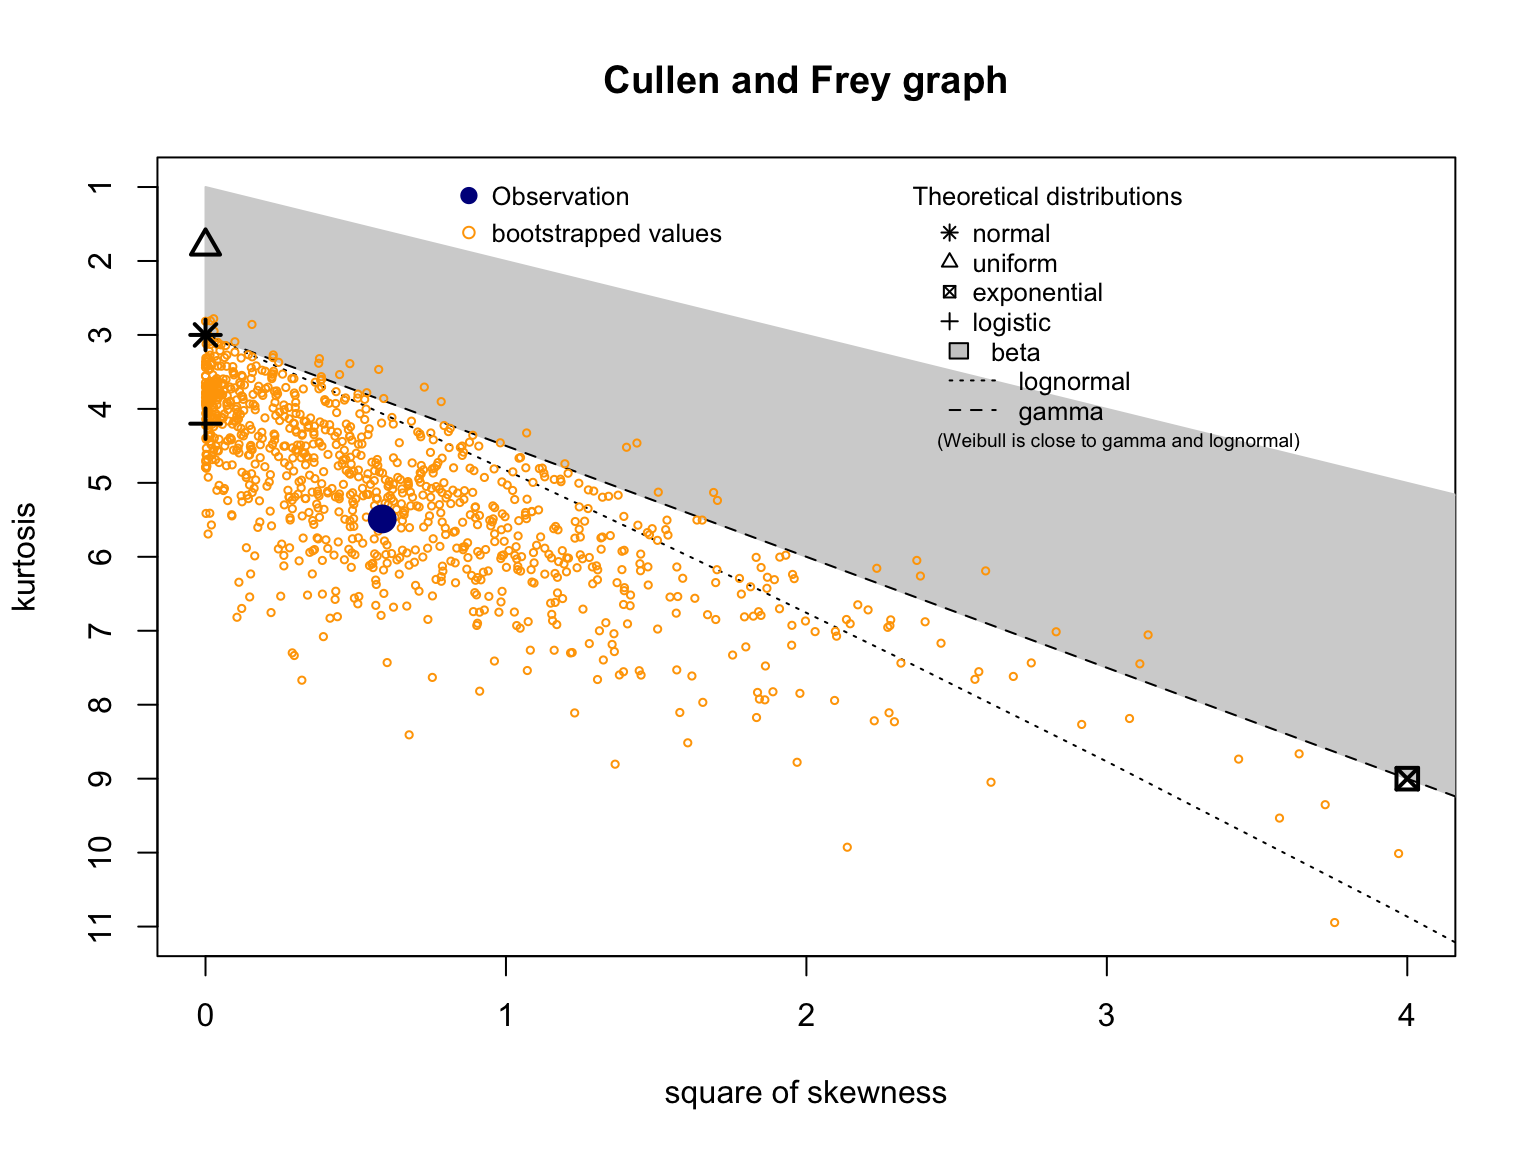
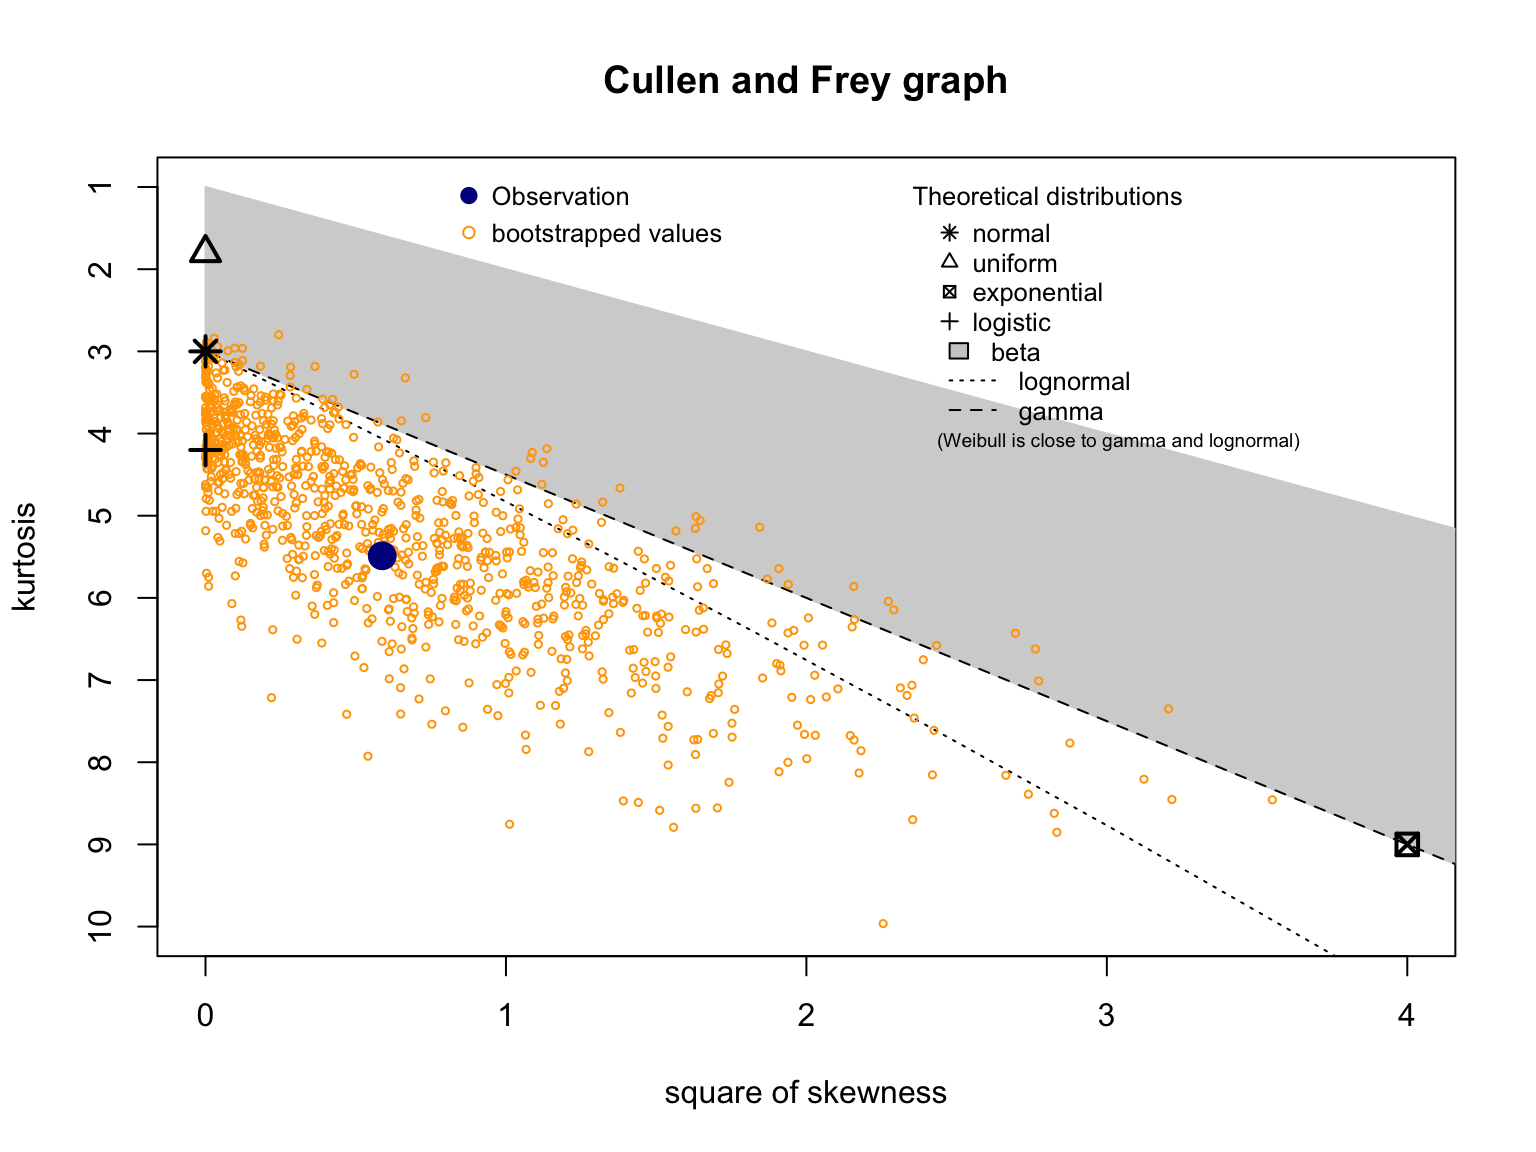
new links

diff --git a/content/en/post/2021-09-04-statistical-factories-part-ii/index.en.html b/content/en/post/2021-09-04-statistical-factories-part-ii/index.en.html
@@ -42,7 +42,7 @@ output:
 </ul>
 </div>
 
-<p>       In my <a href="https://www.kenwuyang.com/post/function-factories-part-i/">post on function factories</a>, we discussed the R data structure that powers function factories— environments. Now, we will focus on some applications of function factories in statistics. Again, the content of this post is inspired by <a href="https://adv-r.hadley.nz/">Advance R</a>; those who may be interested in learning more could turn to Hadley’s book for more information. Here we go!</p>
+<p>       In my <a href="https://www.kenwuyang.com/en/post/function-factories-part-i/">post on function factories</a>, we discussed the R data structure that powers function factories— environments. Now, we will focus on some applications of function factories in statistics. Again, the content of this post is inspired by <a href="https://adv-r.hadley.nz/">Advance R</a>; those who may be interested in learning more could turn to Hadley’s book for more information. Here we go!</p>
 <hr />
 <div id="box-cox-transformation" class="section level2">
 <h2>Box-Cox Transformation</h2>
@@ -100,7 +100,7 @@ ggplot(data = tibble::tibble(&quot;new_y&quot; = box_cox_5(y)), mapping = aes(x 
     panel.grid = element_blank()
   )</code></pre>
 <p><img src="{{< blogdown/postref >}}index.en_files/figure-html/unnamed-chunk-2-2.png" width="576" style="display: block; margin: auto;" /></p>
-<p>       This is by no means the <em>optimal</em> transformation, but it allows us to see the significant change to the distribution of our data. An added benefit to using the function factory is that we can visually explore how different values of <span class="math inline">\(\lambda\)</span> transform our data. This can be carried out with the help of <code>ggplot2::stat_function</code>:</p>
+<p>       This is by no means the <em>optimal</em> transformation, but it allows us to see the significant change to the distribution of our data. An added benefit of using the function factory is that we can visually explore how different values of <span class="math inline">\(\lambda\)</span> transform our data. This can be carried out with the help of <code>ggplot2::stat_function</code>:</p>
 <pre class="r"><code>box_cox_plot_function &lt;- function(lambda) {
   # Change line color based on lambda value
   ggplot2::stat_function(
@@ -154,7 +154,7 @@ lm(y ~ x, data = data) %&gt;%
   summary() %&gt;%
   purrr::pluck(.x = ., &quot;coefficients&quot;) %&gt;%
   `[`(4)</code></pre>
-<pre><code>[1] 0.09828928</code></pre>
+<pre><code>[1] 0.1024499</code></pre>
 <p>Next, we create a function factory, and it takes as input a given data frame and a variable from which the bootstrap sample is to be generated. Ultimately, the function factory will return a manufactured function:</p>
 <pre class="r"><code>bootstrap_factory &lt;- function(df, var) {
 
@@ -198,7 +198,7 @@ vector_of_betas &lt;- list_of_data_frames %&gt;%
     panel.grid = element_blank()
   )</code></pre>
 <p><img src="{{< blogdown/postref >}}index.en_files/figure-html/unnamed-chunk-10-1.png" width="576" style="display: block; margin: auto;" /></p>
-<p>And the standard deviation of this sampling distribution is 0.095925. Does this confirm our standard error calculation from earlier or refute it?</p>
+<p>And the standard deviation of this sampling distribution is 0.102395. Does this confirm our standard error calculation from earlier or refute it?</p>
 <hr />
 </div>
 </div>
@@ -243,10 +243,10 @@ model &lt;- lm(y ~ x, data = data) %&gt;%
 # Least squares estimators
 purrr::pluck(.x = model, &quot;coefficients&quot;) %&gt;%
   `[`(c(1, 2))</code></pre>
-<pre><code>[1] 45.34230635 -0.01160914</code></pre>
+<pre><code>[1] 44.572055917  0.001569285</code></pre>
 <pre class="r"><code># Sigma
 purrr::pluck(.x = model, &quot;sigma&quot;)</code></pre>
-<pre><code>[1] 7.75527</code></pre>
+<pre><code>[1] 7.168166</code></pre>
 <p>Next, create the function factory:</p>
 <pre class="r"><code>likelihood_factory &lt;- function(x, y) {
 
@@ -275,10 +275,10 @@ bbmle::mle2(minuslogl = likelihood_factory(data$x, data$y), start = list(beta0 =
     beta1 = 0, sigma = 50))
 
 Coefficients:
-     beta0      beta1      sigma 
-45.3423018 -0.0116091  7.7033944 
+       beta0        beta1        sigma 
+44.572057288  0.001569382  7.120216813 
 
-Log-likelihood: -519.09 </code></pre>
+Log-likelihood: -507.28 </code></pre>
 <p>How do the maximum likelihood estimators compare to those of the least squares method? (Hint: For normal data, they should be consistent with each other.)</p>
 <hr />
 <p>       And that is all for this post. We have covered three interesting applications of function factories in statistics. Among all of R’s functional programming tool-kits, function factories are perhaps the least utilized features as far as data science is concerned. This is likely because functional factories tend to have more of a mathematical or statistical flavor to them. However, as we have seen in this post and <a href="https://www.kenwuyang.com/post/function-factory-estimating-probabilities-of-returns/">others</a>, there is a class of problems, particular in mathematical statistics, to which function factories could offer elegant solutions in R. Therefore, having them in our R toolkit may certainly reap some long term benefits, allowing us to solve a variety of problems beyond those that are typically encountered in data analysis.</p>

diff --git a/content/en/post/2021-08-31-function-factory-estimating-probabilities-of-returns/index.en.html b/content/en/post/2021-08-31-function-factory-estimating-probabilities-of-returns/index.en.html
@@ -1,5 +1,5 @@
 ---
-title: 'Estimating Probabilities of Returns'
+title: 'Estimating Probabilities of Asset Returns in R'
 author: Yang Wu
 date: '2021-08-31'
 slug: function-factory-estimating-probabilities-of-returns
@@ -38,11 +38,11 @@ output:
 </ul>
 </div>
 
-<p>       In a previous <a href="https://www.kenwuyang.com/post/visualizing-asset-returns/">post</a>, we covered some techniques for visualizing financial data— specifically, asset returns— using various types of visualization and R graphics libraries. We explored line charts, histograms, and density plots, which are all very useful ways to visualize asset returns. Nevertheless, we were left with a question— <em>how could one estimate the probabilities of these returns?</em> We are interested in this question since stakeholders may need more information than what visualizations could provide. Simply put, stakeholders may need us to provide some ways to ascertain uncertainty, as difficult as this may seem, and we must answer the call.</p>
+<p>       In a previous <a href="https://www.kenwuyang.com/en/post/visualizing-asset-returns/">post</a>, we covered some techniques for visualizing financial data— specifically, asset returns— using various types of visualization and R graphics libraries. We explored line charts, histograms, and density plots, which are all very useful ways to visualize asset returns. Nevertheless, we were left with a question— <em>how could one estimate the probabilities of these asset returns?</em> We are interested in this question since stakeholders may need more information than what visualizations could provide. Simply put, stakeholders may need us to provide some ways to ascertain uncertainty, as difficult as this may seem, and we must answer the call.</p>
 <hr />
 <div id="the-problem" class="section level2">
 <h2>The problem</h2>
-<p>       The last time we examined financial data, we focused on a class of assets called the Exchange Traded Funds. We took a sample of daily prices from 2012-12-31 to 2021-7-31 and converted them to monthly log returns. This ultimately left us with a sample of 103 monthly log returns. The last section of my <a href="https://www.kenwuyang.com/post/visualizing-asset-returns/">post</a> on asset visualization ended with this following visualization:</p>
+<p>       The last time we examined financial data, we focused on a class of assets called the Exchange Traded Funds. We took a sample of daily prices from 2012-12-31 to 2021-7-31 and converted them to monthly log returns. This ultimately left us with a sample of 103 monthly log returns. The last section of my <a href="https://www.kenwuyang.com/en/post/visualizing-asset-returns/">post</a> on asset visualization ended with this following visualization:</p>
 <p><img src="densities.png" width="100%" height="100%" style="display: block; margin: auto;" /></p>
 <p>       We also established that <strong>the heights of the curve (the y-axis) do not represent probabilities.</strong> To convert to an actual probability, we need to find the area under the curve for a specific interval of returns. One way of accomplishing this task is to fit some type of probability distribution to our data, and the options are plentiful. The difficulty, however, is that data from the world of finance are often messy and none of these options are ever consistently adequate. The problem, as <a href="https://www.investopedia.com/contributors/46/">David Harper</a> once described in a blog post, is precisely this:</p>
 <blockquote>

diff --git a/content/en/post/2021-06-20-portfolio-optimization-dashboard/index.en.html b/content/en/post/2021-06-20-portfolio-optimization-dashboard/index.en.html
@@ -22,5 +22,5 @@ projects: []
 <script src="{{< blogdown/postref >}}index.en_files/header-attrs/header-attrs.js"></script>
 
 
-<p>       In the previous <a href="https://www.kenwuyang.com/post/customizable-portfolio-dashboard/">post</a>, we created a customizable portfolio dashboard via shiny. In that application, the weights of the portfolio are taken as given, and we focus more on the various types of visualizations and performance metrics. In this post, we create a portfolio optimization dashboard, which seeks to find the optimal set of weights, subject to some constraints, that yields a set of optimal portfolios. We will introduce some portfolio theory and implement the theoretical framework in R using packages such as <code>PortfolioAnalytics</code>, <code>PerformanceAnalytics</code>, and <code>tidyquant</code>.</p>
+<p>       In the previous <a href="https://www.kenwuyang.com/en/post/customizable-portfolio-dashboard/">post</a>, we created a customizable portfolio dashboard via R shiny. In that application, the weights of the portfolio are taken as given, and we focus more on the various types of visualizations and performance metrics. In this post, we create a portfolio optimization dashboard, which seeks to find the optimal set of weights, subject to some constraints, that yields a set of optimal portfolios. We will introduce some portfolio theory and implement the theoretical framework in R using packages such as <code>PortfolioAnalytics</code>, <code>PerformanceAnalytics</code>, and <code>tidyquant</code>.</p>
 <p>       For more readings on the theory, I recommend <a href="https://www.amazon.com/ISE-Essentials-Investments-Zvi-Bodie/dp/1260288390/">Essentials of Investments</a> and <a href="https://www.amazon.com/Practical-Portfolio-Performance-Measurement-Attribution/dp/0470059281/">Practical Portfolio Performance Measurement and Attribution</a>. For implementing these theories in R, I suggest reading the documentations for the aforementioned R packages; in addition, Matt Dancho from <a href="https://university.business-science.io/">Business Science University</a> (he is also the co-author of the <code>tidyquant</code> package) provides some very useful <a href="https://cran.r-project.org/web/packages/tidyquant/index.html">vignettes</a> on the <code>tidyquant</code> package. Many of my posts are inspired by his incredibly practical learning labs and vignettes. Finally, the dashboard can be found <a href="https://rpubs.com/yangwu1227/personal_project">here</a>.</p>
